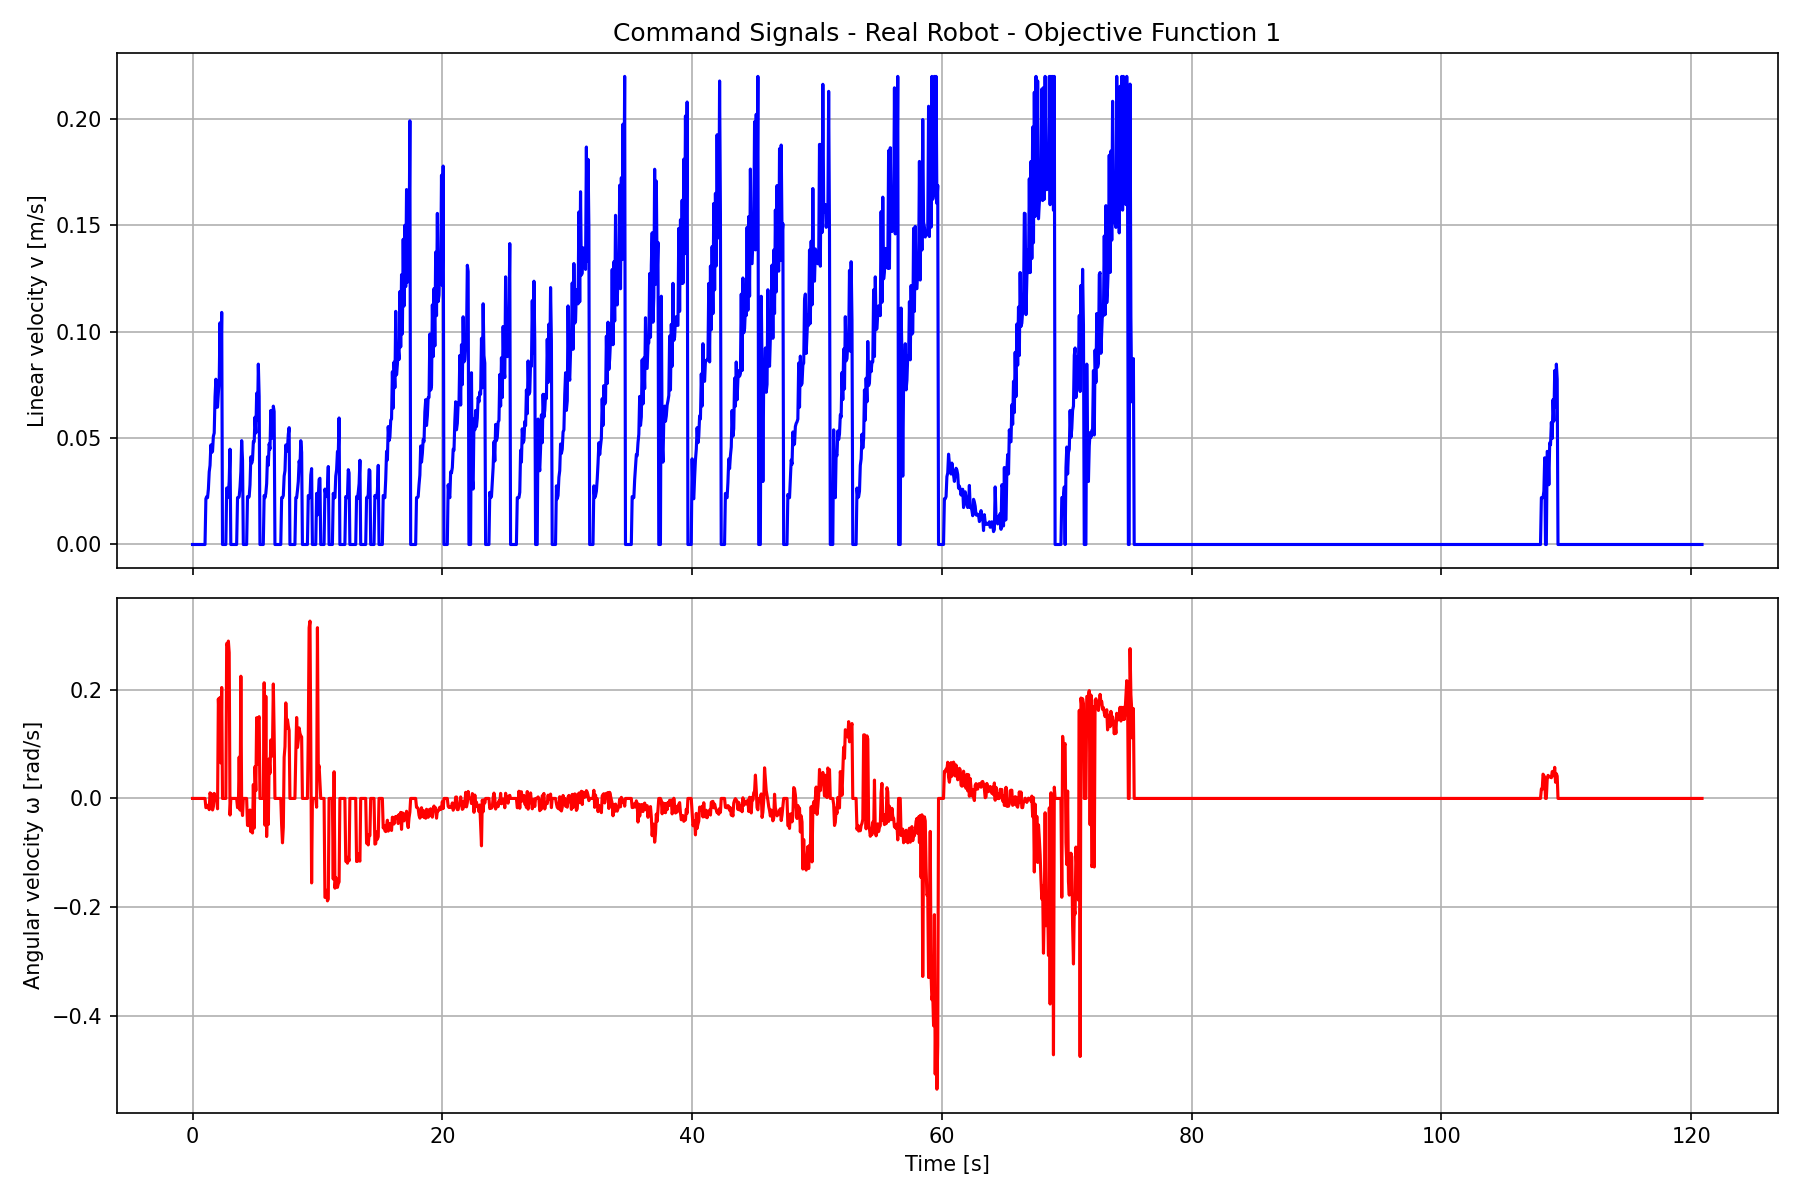
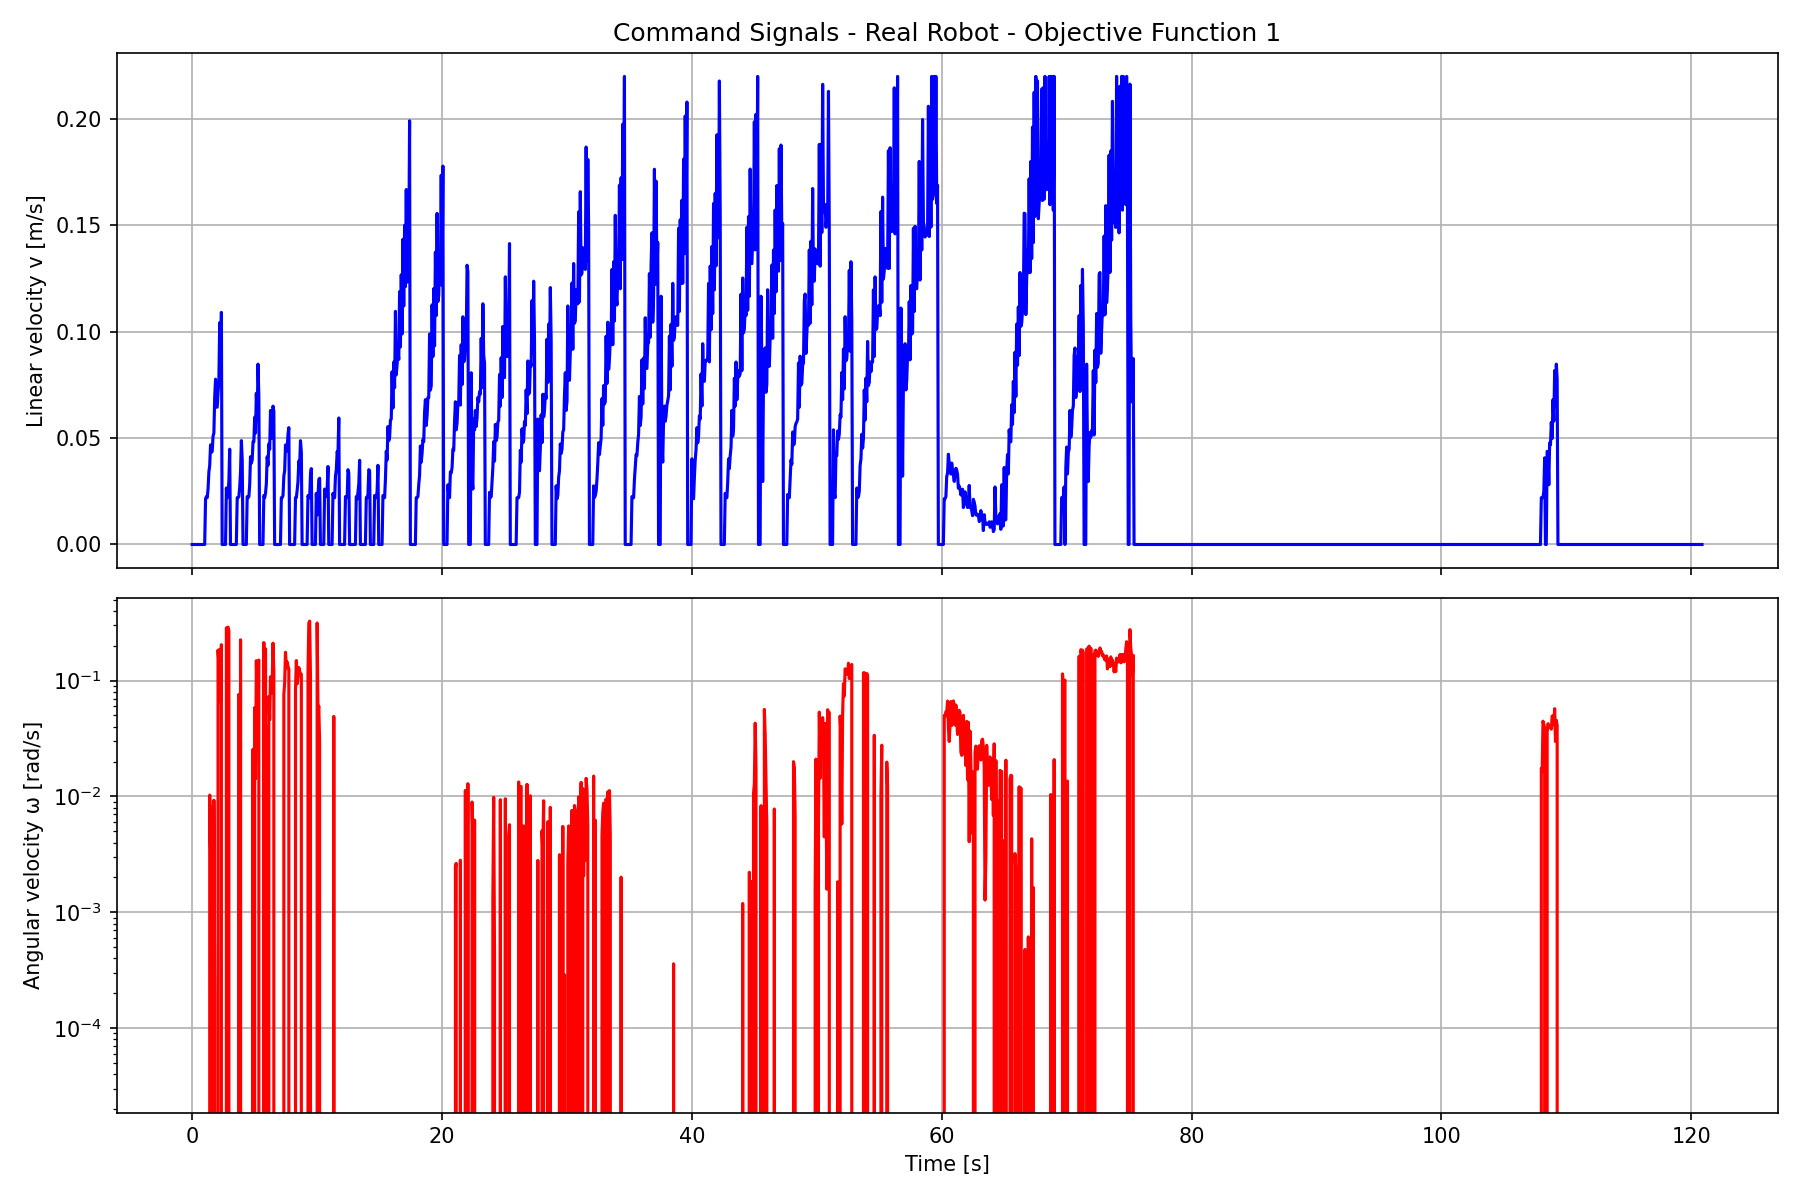
fix(graphs): semilogy for cmd_vel.angular graphs

diff --git a/report/sections/metrics_table.tex b/report/sections/metrics_table.tex
@@ -6,16 +6,16 @@
 \hline
 \textbf{Metric} & \textbf{s1} & \textbf{s2a} & \textbf{s2b} & \textbf{r1} & \textbf{r1\_static} & \textbf{r1\_timeout} & \textbf{r2a} & \textbf{r2b}\\
 \hline
-Success Rate & 100.000\% & 100.000\% & 100.000\% & 42.353\% & 71.196\% & 0.000\% & 64.352\% & 4.082\%\\
-Collision Rate & 0.000\% & 0.000\% & 0.000\% & 57.647\% & 0.000\% & 0.000\% & 35.648\% & 95.918\%\\
-Timeout Rate & 0.000\% & 0.000\% & 0.000\% & 0.000\% & 28.804\% & 100.000\% & 0.000\% & 0.000\%\\
-Tracking Percentage & 100.000 & 100.000 & 100.000 & 73.176 & 59.471 & 46.065 & 66.535 & 76.913\\
+Success Rate & 100.00\% & 100.00\% & 100.00\% & 42.35\% & 71.20\% & 0.00\% & 64.35\% & 4.08\%\\
+Collision Rate & 0.00\% & 0.00\% & 0.00\% & 57.65\% & 0.00\% & 0.00\% & 35.65\% & 95.92\%\\
+Timeout Rate & 0.00\% & 0.00\% & 0.00\% & 0.00\% & 28.80\% & 100.00\% & 0.00\% & 0.00\%\\
+Tracking Percentage & 100.00\% & 100.00\% & 100.00\% & 73.18\% & 59.47\% & 46.06\% & 66.54\% & 76.91\%\\
 Rmse Distance & 0.313 & 0.316 & 0.320 & 1.669 & 2.685 & 1.222 & 1.223 & 1.253\\
 Rmse Bearing & 0.133 & 0.132 & 0.145 & 0.224 & 0.107 & 0.071 & 0.186 & 0.174\\
 Avg Distance & 0.431 & 0.444 & 0.448 & 1.634 & 2.550 & 1.407 & 1.307 & 1.418\\
 Avg Bearing & 0.074 & 0.079 & 0.086 & 0.178 & 0.071 & 0.059 & 0.146 & 0.138\\
-Avg Dist Obst & 1.9045847654342651 & 1.8823645114898682 & 1.8795063495635986 & 2.075275421142578 & 2.2188193798065186 & 1.9734026193618774 & 2.0853466987609863 & 2.4157567024230957\\
-Min Dist Obst & 0.17209821939468384 & 0.1819748878479004 & 0.17993928492069244 & 0.1550000011920929 & 0.1979999989271164 & 0.30399999022483826 & 0.1550000011920929 & 0.1550000011920929\\
+Avg Dist Obst & 1.905 & 1.882 & 1.880 & 2.075 & 2.219 & 1.973 & 2.085 & 2.416\\
+Min Dist Obst & 0.172 & 0.182 & 0.180 & 0.155 & 0.198 & 0.304 & 0.155 & 0.155\\
 \hline
 \end{tabular}
 \end{table}

diff --git a/src/r3pkg/script/compute_metrics.py b/src/r3pkg/script/compute_metrics.py
@@ -226,7 +226,7 @@ def plot_cmd_signals(data, save_path_dir=None):
     ax1.grid(True)
     
     # Angular velocity
-    ax2.plot(time_sec, cmd_data[:, 1], 'r-', linewidth=1.5)
+    ax2.semilogy(time_sec, cmd_data[:, 1], 'r-', linewidth=1.5)
     ax2.set_xlabel('Time [s]')
     ax2.set_ylabel('Angular velocity ω [rad/s]')
     ax2.grid(True)
@@ -544,12 +544,10 @@ if __name__=="__main__":
             row = f'{name}' 
             
             for elem in list(map(lambda m: m.get(key), metrics_list)):
-                if isinstance(elem, float):
-                    row += f' & {elem:.3f}'
+                if key.endswith('rate') or key.endswith('percentage'):
+                    row+=f' & {elem:.2f}' + r' \%'
                 else:
-                    row += f' & {elem}'
-                if key.endswith('rate'):
-                    row+=r'\%'
+                    row += f' & {elem:.3f}'
                     
             row+='\\\\\n'
             rows+=row
